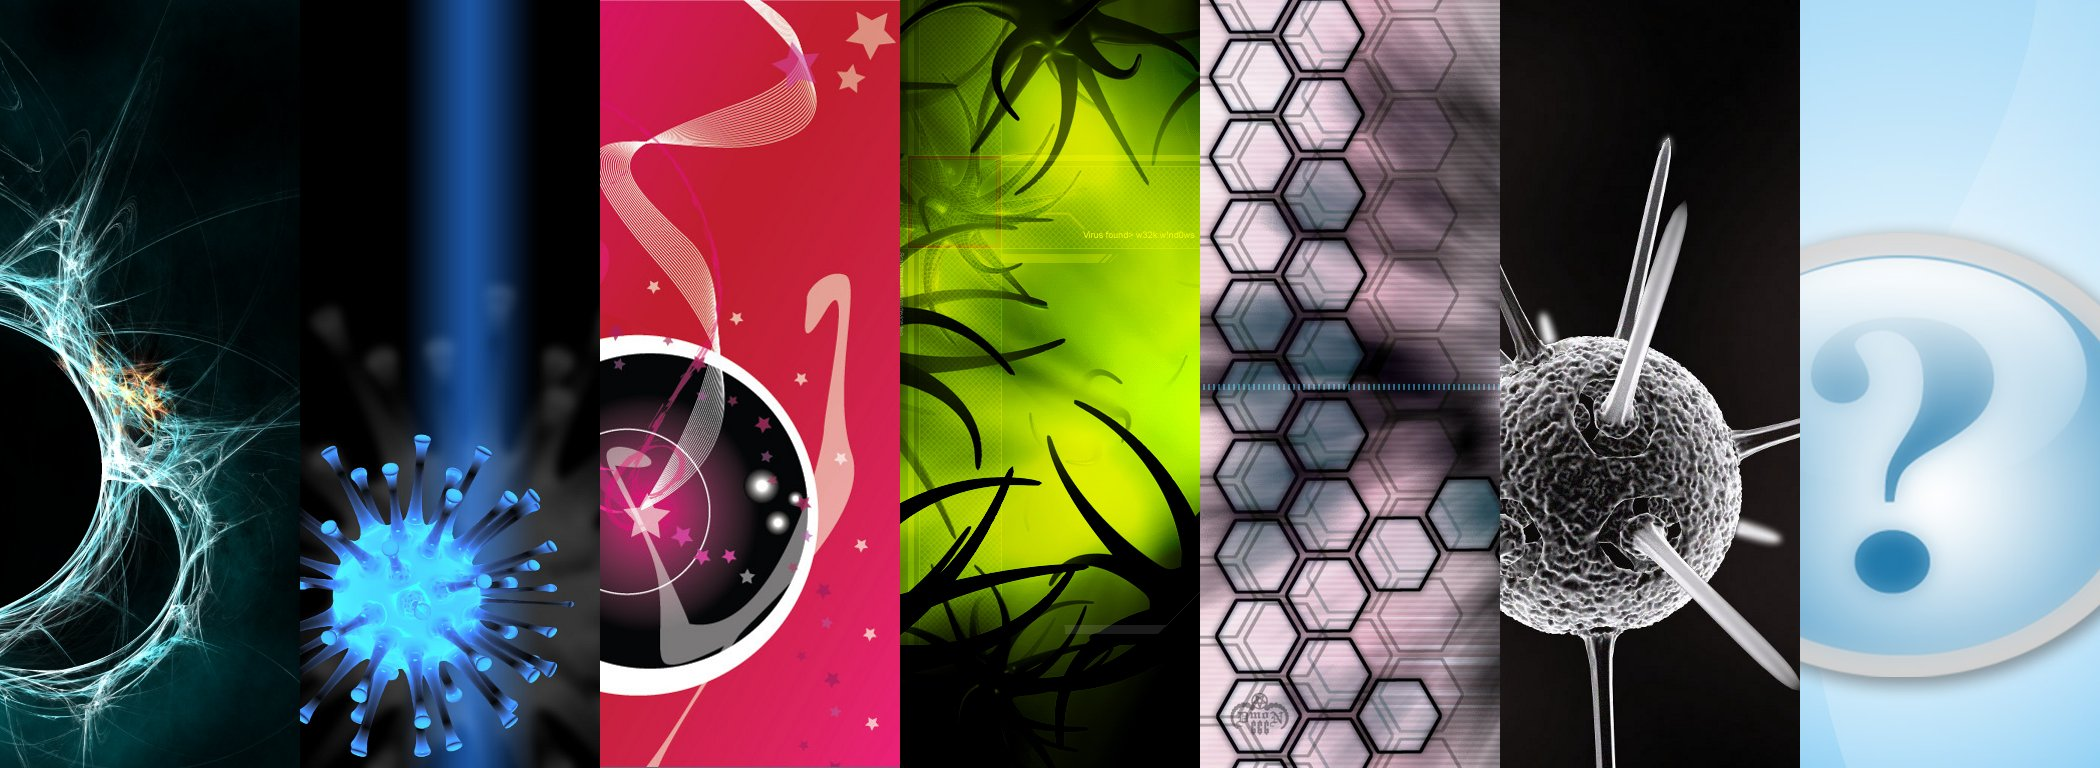
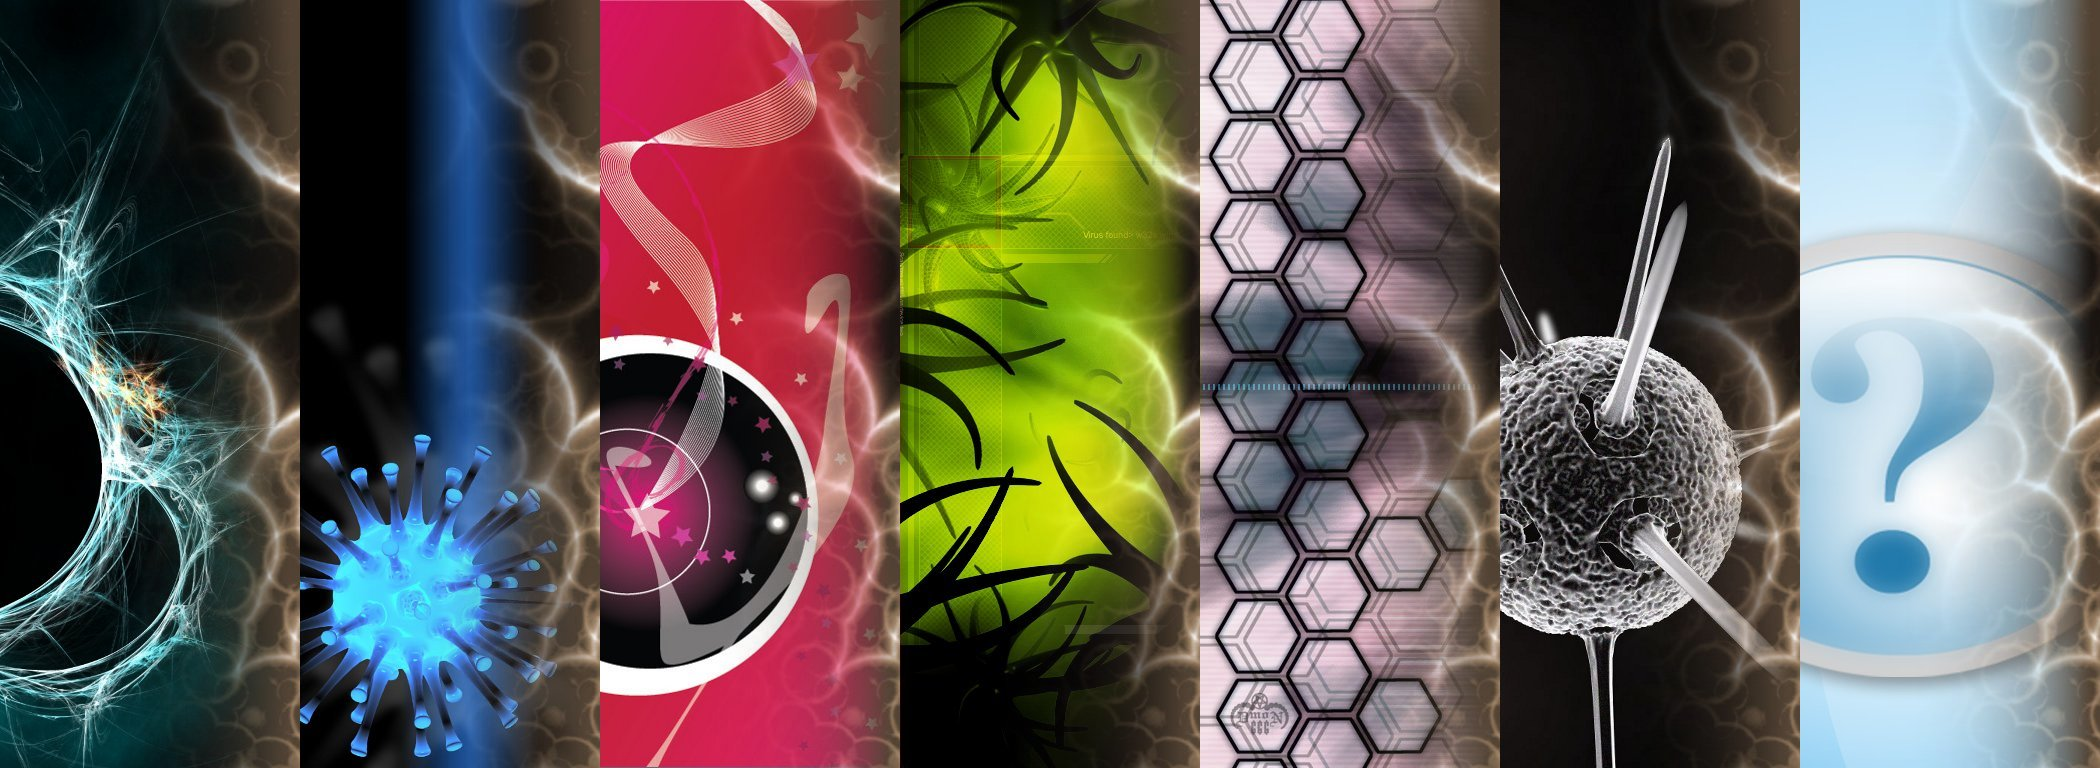
Contents fix: play, mask, explosion, win-or-lose

diff --git a/Guerrilla.py b/Guerrilla.py
@@ -166,7 +166,7 @@ class Guerrilla(object):
             self.pendingchangestate(HELP)
 
 
-    def entergameover(self, win=False):
+    def entergameover(self):
         """prepare to enter gameover screen"""
 
         self.gamedata.set_lastscreen(self._screen.copy())
@@ -205,13 +205,12 @@ class Guerrilla(object):
         EColi.images = load_image("ecoli.png", 3)
         EColi2.image = load_image("ecoli2.png")
         BigEColi.image = load_image("big-ecoli.png")  #FIXME FIXME
-        Explosion.images = load_image("explosion.png", 16, colorkey=True)
+        Explosion.images = load_image("explosion.png", 16)
         HeartMark.images = load_image("heart-animation.png", 96)
 
         TitleStart.image = load_image("logo.png")
         HighlightSelect.image = load_image("highlight.png")
         SidebarSelect.images = load_image("sidebar.jpg", 7)
-        SidebarSelect.mask = load_image("mask.png")  # FIXME FIXME
 
         BackgroundHelp.images = load_image('help.png', 10)
         ContentsHelp.image = load_image('help-contents.png')
@@ -219,7 +218,7 @@ class Guerrilla(object):
         # Load background
         BackgroundStart.image = load_image("start.jpg")
         BackgroundSelect.image = load_image("select.jpg")
-        BackgroundPlay.image = load_image("play.jpg")
+        BackgroundPlay.images = load_image("play.jpg", 2)
         BackgroundGameover.loseimage = load_image("lose.jpg")
         BackgroundGameover.winimage = load_image("win.jpg")
 
@@ -251,6 +250,7 @@ class GameData(object):
 
     def initlevel(self, level):
 
+        self.level = level
         self.result = self.LOSE
         self.lastscreen = None
 

diff --git a/lib/objects/play.py b/lib/objects/play.py
@@ -37,12 +37,11 @@ class PlayDraw():
         HeartMark.containers = self.play_all
 
         self.player = Player()
-        self.bg_play = BackgroundPlay()
+        self.bg_play = BackgroundPlay(gamedata.level)
 
         self.gamedata = gamedata
         self.boss = None
         self.gameover = False
-        self.win = False
 
 
     def update(self):
@@ -71,7 +70,7 @@ class PlayDraw():
 
             # player killed the boss?
             if not self.boss.alive():
-                self.win = True
+                self.gamedata.result = self.gamedata.WIN
                 self.gameover = True
 
 
@@ -131,7 +130,7 @@ class PlayDraw():
                 #Player.bomb_sound.play()  #FIXME
                 pass
             if not self.player.killed_once(): # die once
-                self.win = False
+                self.gamedata.result = self.gamedata.LOSE
                 self.gameover = True
 
     def hasfinished(self):
@@ -143,9 +142,11 @@ class BackgroundPlay():
 
     mag = 0.2
 
-    def __init__(self):
+    def __init__(self, level):
 
         magged_size = (int(SCR_RECT.width*(1+self.mag)), int(SCR_RECT.height*(1+self.mag)))
+
+        self.image = self.images[level-1]  # FIXME some images in one level
         self.image = pygame.transform.scale(self.image, (magged_size[0], magged_size[1]))  #FIXME
         self.rect = self.image.get_rect()
 

diff --git a/lib/objects/select.py b/lib/objects/select.py
@@ -260,13 +260,10 @@ class SidebarSelect2(SidebarSelect):
 
                 newsurf.blit(self.images[self.newindex], (0, 0))
  
-            newsurf.blit(self.mask, (0,0)) #FIXME 
             self.image = newsurf
  
         else:
-            #self.image = self.images[self.oldindex] #FIXME FIXME
-            self.image = self.images[self.oldindex].copy()
-            self.image.blit(self.mask, (0,0))
+            self.image = self.images[self.oldindex] #FIXME FIXME
 
 
 class EffectSelect():
